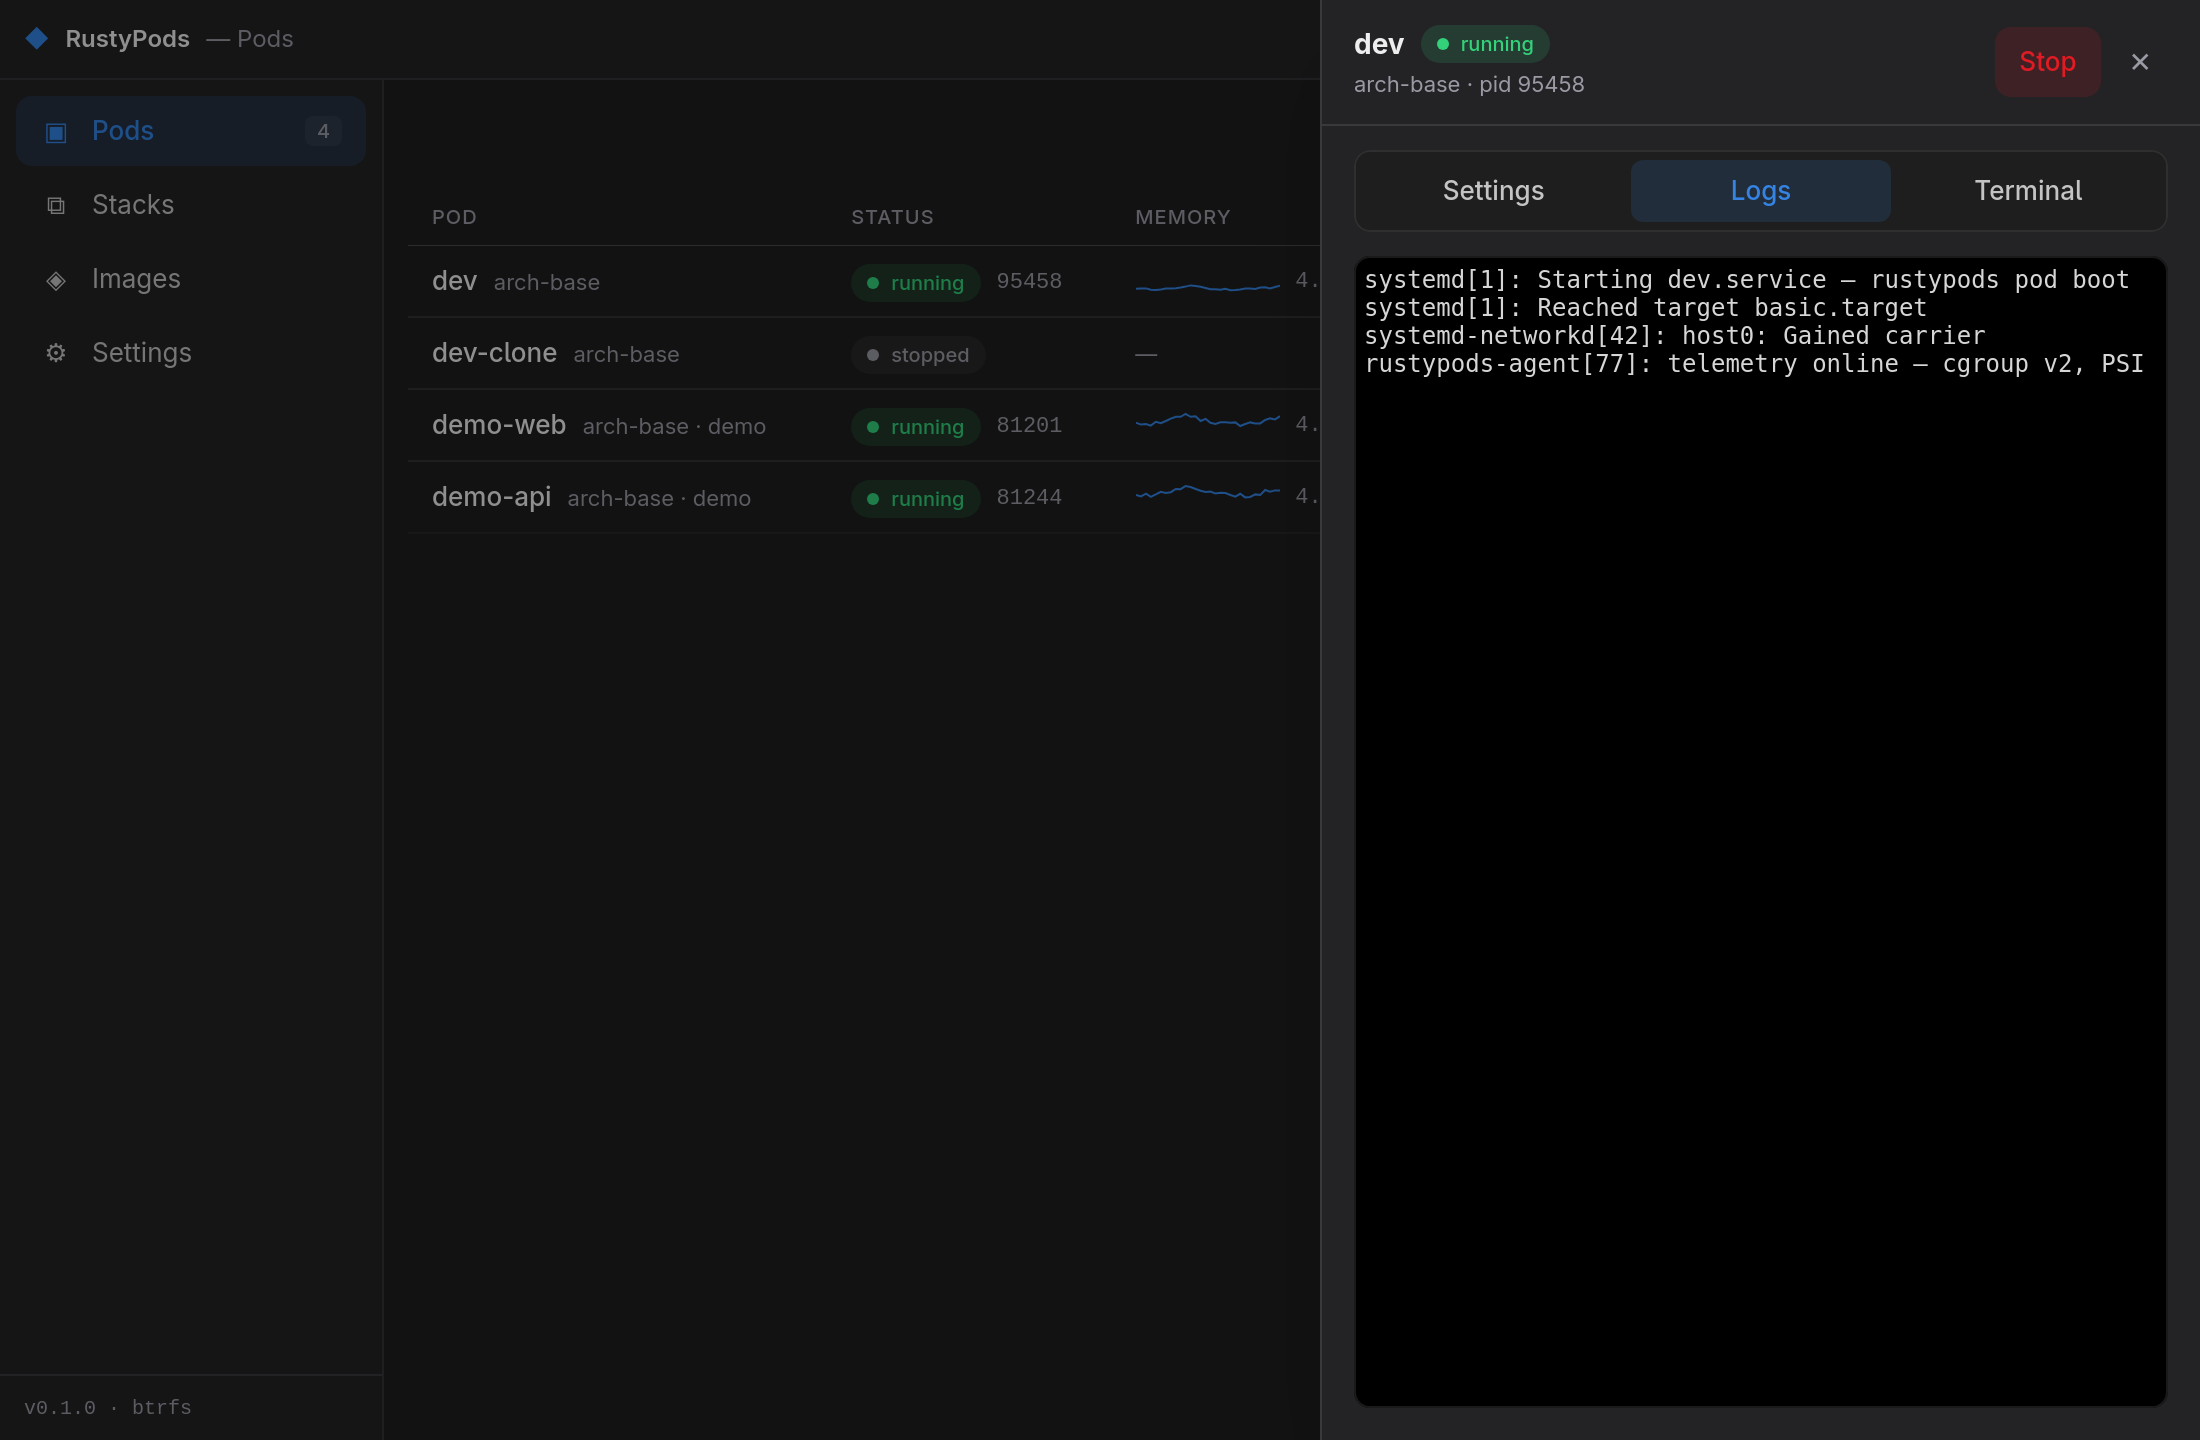
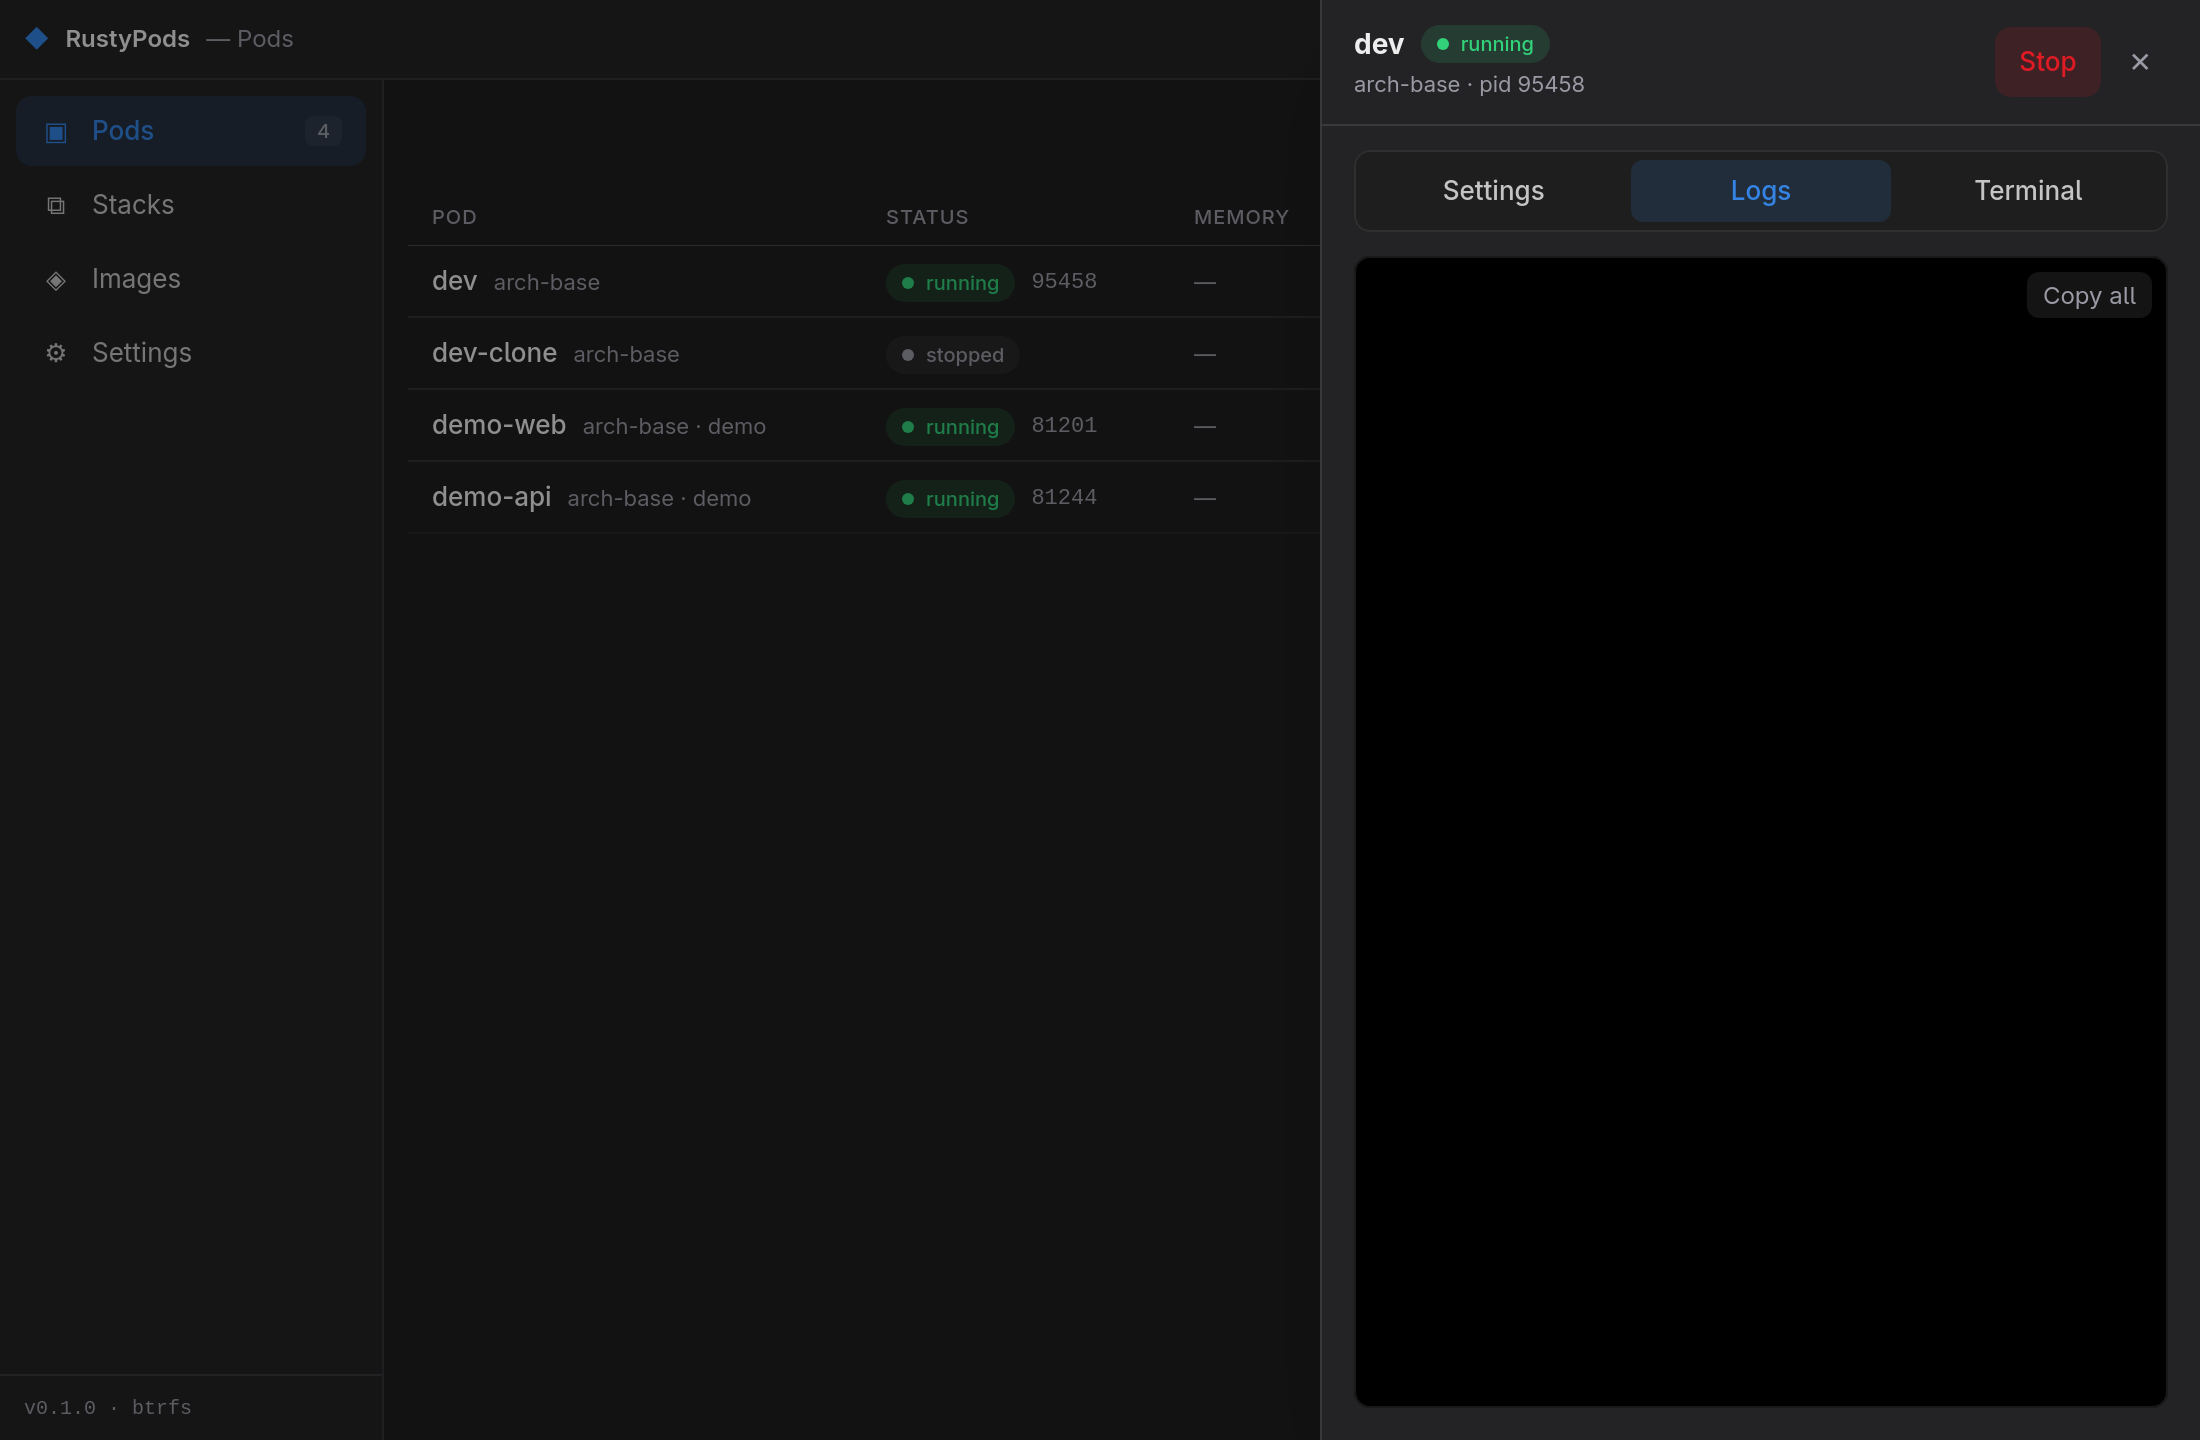
Logs: journalctl -o cat for clean output + Copy all button
- stream_logs now follows journald with `-o cat` so gRPC/CLI/GUI
  consumers get raw message text — no timestamp/host/unit chrome.
  Matters for AI agents parsing compiler output and for copying
  error text out of the Logs tab.
- LogPane gains a Copy all button that dumps the full xterm
  scrollback (backlog + viewport) to the clipboard.
- Verified live: systemd-cat lines in dev arrive via `rustypods
  logs` as pure message text; ipc test 5/5 green.

Generated with [Devin](https://devin.ai)

diff --git a/gui/src/LogPane.tsx b/gui/src/LogPane.tsx
@@ -1,4 +1,4 @@
-import { useEffect, useRef } from "react";
+import { useEffect, useRef, useState } from "react";
 import { Terminal } from "@xterm/xterm";
 import { FitAddon } from "@xterm/addon-fit";
 import "@xterm/xterm/css/xterm.css";
@@ -17,6 +17,29 @@ export default function LogPane({
   running: boolean;
 }) {
   const hostRef = useRef<HTMLDivElement>(null);
+  const termRef = useRef<Terminal | null>(null);
+  const [copied, setCopied] = useState(false);
+
+  // Dump the whole scrollback buffer (backlog + viewport) to the clipboard
+  // so log output can be pasted into a bug report or an AI chat.
+  const copyAll = async () => {
+    const term = termRef.current;
+    if (!term) return;
+    const buf = term.buffer.active;
+    const lines: string[] = [];
+    for (let i = 0; i < buf.length; i++) {
+      const s = buf.getLine(i)?.translateToString(true);
+      if (s !== undefined) lines.push(s);
+    }
+    while (lines.length > 0 && lines[lines.length - 1] === "") lines.pop();
+    try {
+      await navigator.clipboard.writeText(lines.join("\n"));
+      setCopied(true);
+      setTimeout(() => setCopied(false), 1500);
+    } catch {
+      // Clipboard unavailable (permissions) — leave the label unchanged.
+    }
+  };
 
   useEffect(() => {
     const host = hostRef.current;
@@ -40,6 +63,7 @@ export default function LogPane({
     term.loadAddon(fit);
     term.open(host);
     fit.fit();
+    termRef.current = term;
 
     // Subscribe BEFORE watchLogs so the first backlog lines can't race past
     // the listener registration.
@@ -63,6 +87,7 @@ export default function LogPane({
       ro.disconnect();
       api.unwatchLogs(pod);
       term.dispose();
+      termRef.current = null;
     };
   }, [pod, running]);
 
@@ -75,9 +100,17 @@ export default function LogPane({
   }
 
   return (
-    <div
-      ref={hostRef}
-      className="h-full min-h-[300px] overflow-hidden rounded-lg border border-white/10 bg-black p-1"
-    />
+    <div className="relative h-full min-h-[300px]">
+      <div
+        ref={hostRef}
+        className="h-full overflow-hidden rounded-lg border border-white/10 bg-black p-1"
+      />
+      <button
+        onClick={copyAll}
+        className="absolute right-2 top-2 rounded-md bg-white/[0.08] px-2 py-1 text-xs text-muted transition-colors hover:bg-white/15 hover:text-fg"
+      >
+        {copied ? "Copied" : "Copy all"}
+      </button>
+    </div>
   );
 }

diff --git a/crates/rustypodsd/src/server.rs b/crates/rustypodsd/src/server.rs
@@ -1237,8 +1237,12 @@ impl PodControl for Svc {
                     .map(|s| s.success())
                     .unwrap_or(false);
             let spawned = if has_journal {
+                // `-o cat`: raw message text only — no timestamp/host/unit
+                // prefix. AI/agent consumers of the gRPC stream (and humans
+                // copying compiler errors) want the message, not journal
+                // chrome.
                 tokio::process::Command::new("journalctl")
-                    .args(["-M", &name, "-f", "-n", "100", "-o", "short", "--no-pager"])
+                    .args(["-M", &name, "-f", "-n", "100", "-o", "cat", "--no-pager"])
                     .stdin(Stdio::null())
                     .stdout(Stdio::piped())
                     .stderr(Stdio::null())
